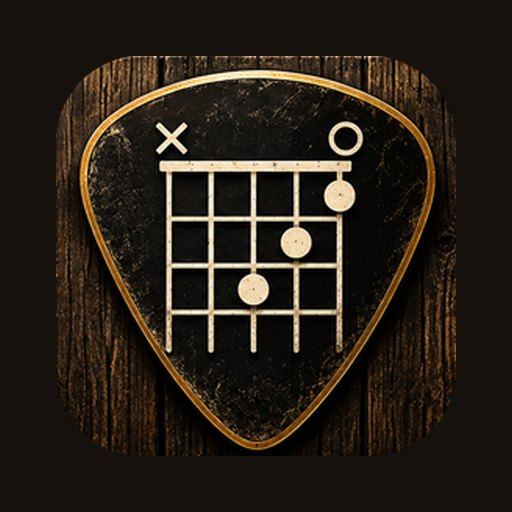
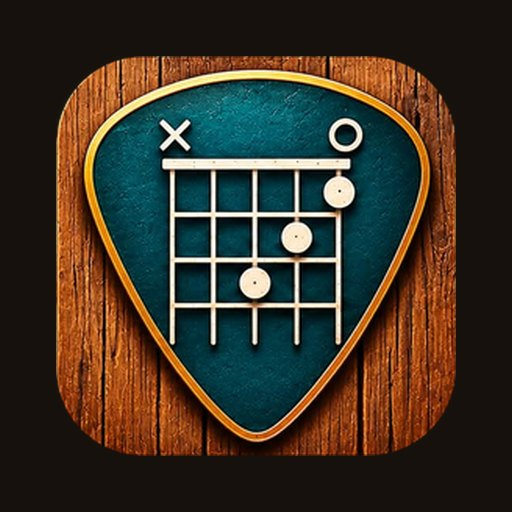
Icônes des webapps : versions en couleur
Claude-Session: https://claude.ai/code/session_01EAWoBbtk1y1wYHhqvcfYiF

diff --git a/apps/index.html b/apps/index.html
@@ -67,7 +67,7 @@
         </div>
       </li>
       <li class="md">
-        <img class="appico" src="../img/apps/ez-lyrics.webp" alt="" width="96" height="96" loading="lazy">
+        <img class="appico" src="../img/apps/ez-lyrics.webp?v=2" alt="" width="96" height="96" loading="lazy">
         <div>
           <h3>EZ Lyrics</h3>
           <p class="caps meta"><span lang="fr">Gratuit · Dans le navigateur · En français</span><span lang="en">Free · In your browser · In French</span></p>
@@ -77,7 +77,7 @@
         </div>
       </li>
       <li class="md">
-        <img class="appico" src="../img/apps/chart-it.webp" alt="" width="96" height="96" loading="lazy">
+        <img class="appico" src="../img/apps/chart-it.webp?v=2" alt="" width="96" height="96" loading="lazy">
         <div>
           <h3>Chart It</h3>
           <p class="caps meta"><span lang="fr">Gratuit · Dans le navigateur · En français</span><span lang="en">Free · In your browser · In French</span></p>
@@ -87,7 +87,7 @@
         </div>
       </li>
       <li class="md">
-        <img class="appico" src="../img/apps/tonality.webp" alt="" width="96" height="96" loading="lazy">
+        <img class="appico" src="../img/apps/tonality.webp?v=2" alt="" width="96" height="96" loading="lazy">
         <div>
           <h3>Tonality</h3>
           <p class="caps meta"><span lang="fr">Gratuit · Dans le navigateur · En français</span><span lang="en">Free · In your browser · In French</span></p>

diff --git a/chart-it/index.html b/chart-it/index.html
@@ -4,9 +4,9 @@
 <meta charset="utf-8">
 <meta name="viewport" content="width=device-width,initial-scale=1,viewport-fit=cover">
 <meta name="description" content="Chart It : fais jouer une vidéo YouTube ou un fichier audio, et obtiens la grille d'accords à la façon d'un Real Book (forme, accords, mesures). Par Tom Tom Music.">
-<link rel="icon" href="../img/apps/chart-it-32.png">
-<link rel="apple-touch-icon" href="../img/apps/chart-it-180.png">
-<meta property="og:image" content="https://tommusic.ca/img/apps/chart-it-partage.jpg">
+<link rel="icon" href="../img/apps/chart-it-32.png?v=2">
+<link rel="apple-touch-icon" href="../img/apps/chart-it-180.png?v=2">
+<meta property="og:image" content="https://tommusic.ca/img/apps/chart-it-partage.jpg?v=2">
 <title>Chart It · Trouver les accords d'une chanson YouTube | Tom Tom Music</title>
 <link rel="preconnect" href="https://fonts.googleapis.com">
 <link rel="stylesheet" href="https://fonts.googleapis.com/css2?family=Plus+Jakarta+Sans:wght@400;500;600;700;800&family=Atkinson+Hyperlegible:wght@400;700&family=JetBrains+Mono:wght@400&display=swap">

diff --git a/tonality/index.html b/tonality/index.html
@@ -4,9 +4,9 @@
 <meta charset="utf-8">
 <meta name="viewport" content="width=device-width,initial-scale=1,viewport-fit=cover">
 <meta name="description" content="Tonality : écoute une vidéo YouTube ou un fichier audio, transpose-la en temps réel et découvre sa tonalité et ses modulations. Par Tom Tom Music.">
-<link rel="icon" href="../img/apps/tonality-32.png">
-<link rel="apple-touch-icon" href="../img/apps/tonality-180.png">
-<meta property="og:image" content="https://tommusic.ca/img/apps/tonality-partage.jpg">
+<link rel="icon" href="../img/apps/tonality-32.png?v=2">
+<link rel="apple-touch-icon" href="../img/apps/tonality-180.png?v=2">
+<meta property="og:image" content="https://tommusic.ca/img/apps/tonality-partage.jpg?v=2">
 <title>Tonality · Transposer une chanson YouTube en temps réel | Tom Tom Music</title>
 <link rel="preconnect" href="https://fonts.googleapis.com">
 <link rel="stylesheet" href="https://fonts.googleapis.com/css2?family=Plus+Jakarta+Sans:wght@400;500;600;700;800&family=Atkinson+Hyperlegible:wght@400;700&display=swap">

diff --git a/ez-lyrics/index.html b/ez-lyrics/index.html
@@ -4,9 +4,9 @@
 <meta charset="utf-8">
 <meta name="viewport" content="width=device-width,initial-scale=1,viewport-fit=cover">
 <meta name="description" content="EZ Lyrics : colle une feuille d'accords, garde seulement les paroles et les sections pour le chanteur, puis télécharge un PDF propre. Par Tom Tom Music.">
-<link rel="icon" href="../img/apps/ez-lyrics-32.png">
-<link rel="apple-touch-icon" href="../img/apps/ez-lyrics-180.png">
-<meta property="og:image" content="https://tommusic.ca/img/apps/ez-lyrics-partage.jpg">
+<link rel="icon" href="../img/apps/ez-lyrics-32.png?v=2">
+<link rel="apple-touch-icon" href="../img/apps/ez-lyrics-180.png?v=2">
+<meta property="og:image" content="https://tommusic.ca/img/apps/ez-lyrics-partage.jpg?v=2">
 <style>body{margin:0}[hidden]{display:none!important}img{max-width:100%}</style>
 <link rel="canonical" href="https://tommusic.ca/ez-lyrics/">
 <meta property="og:type" content="website">
